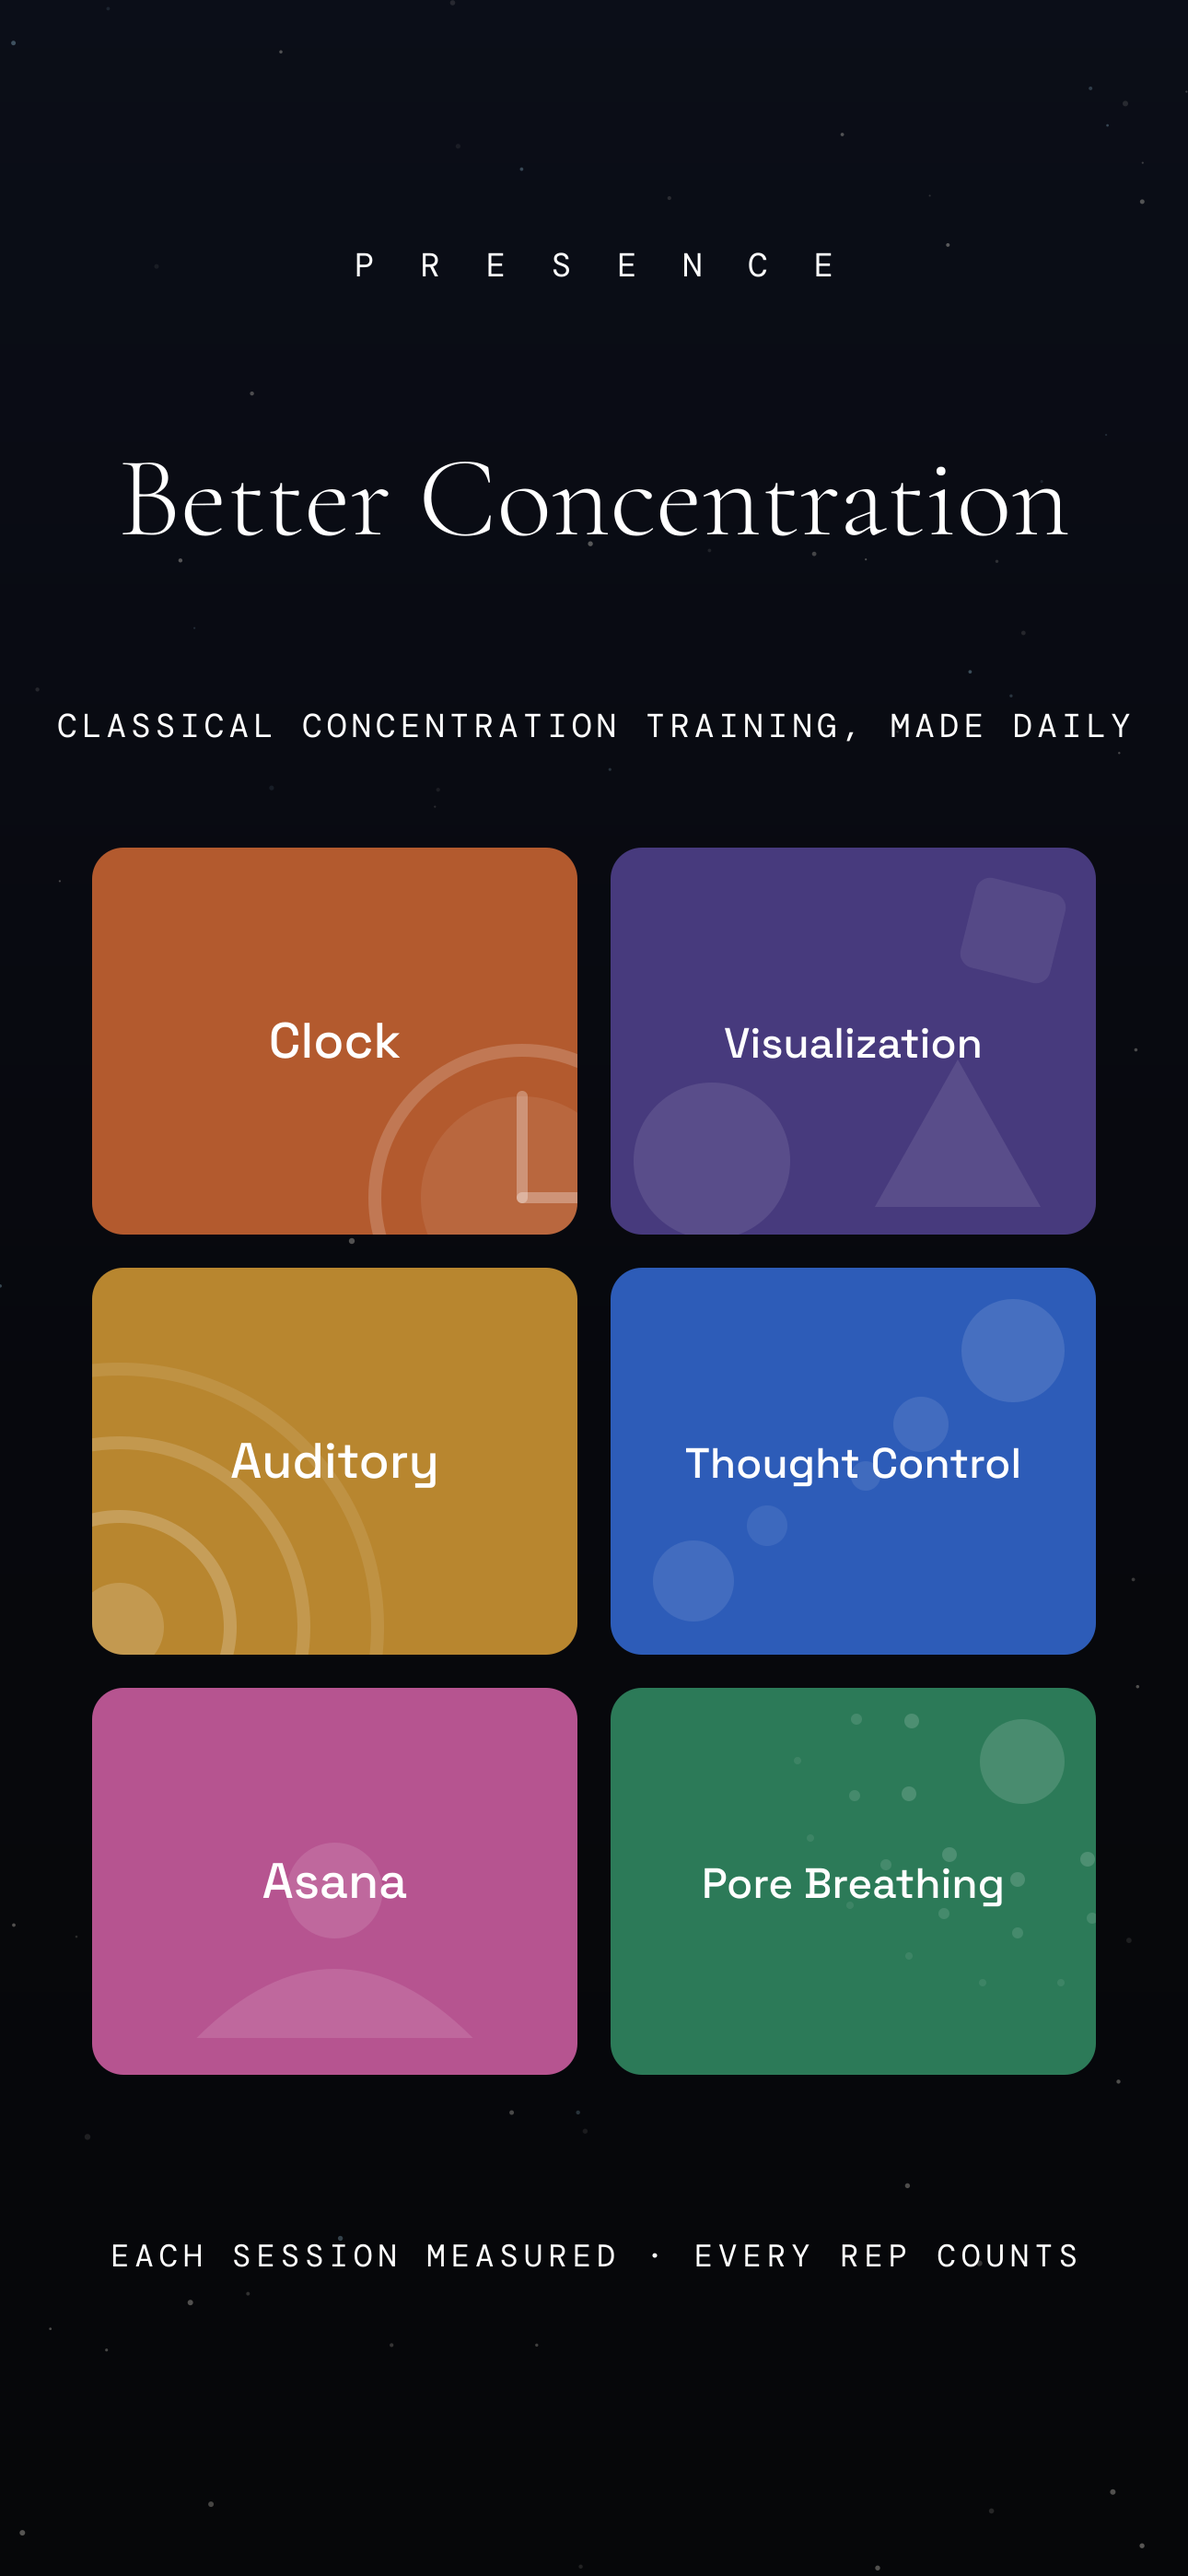
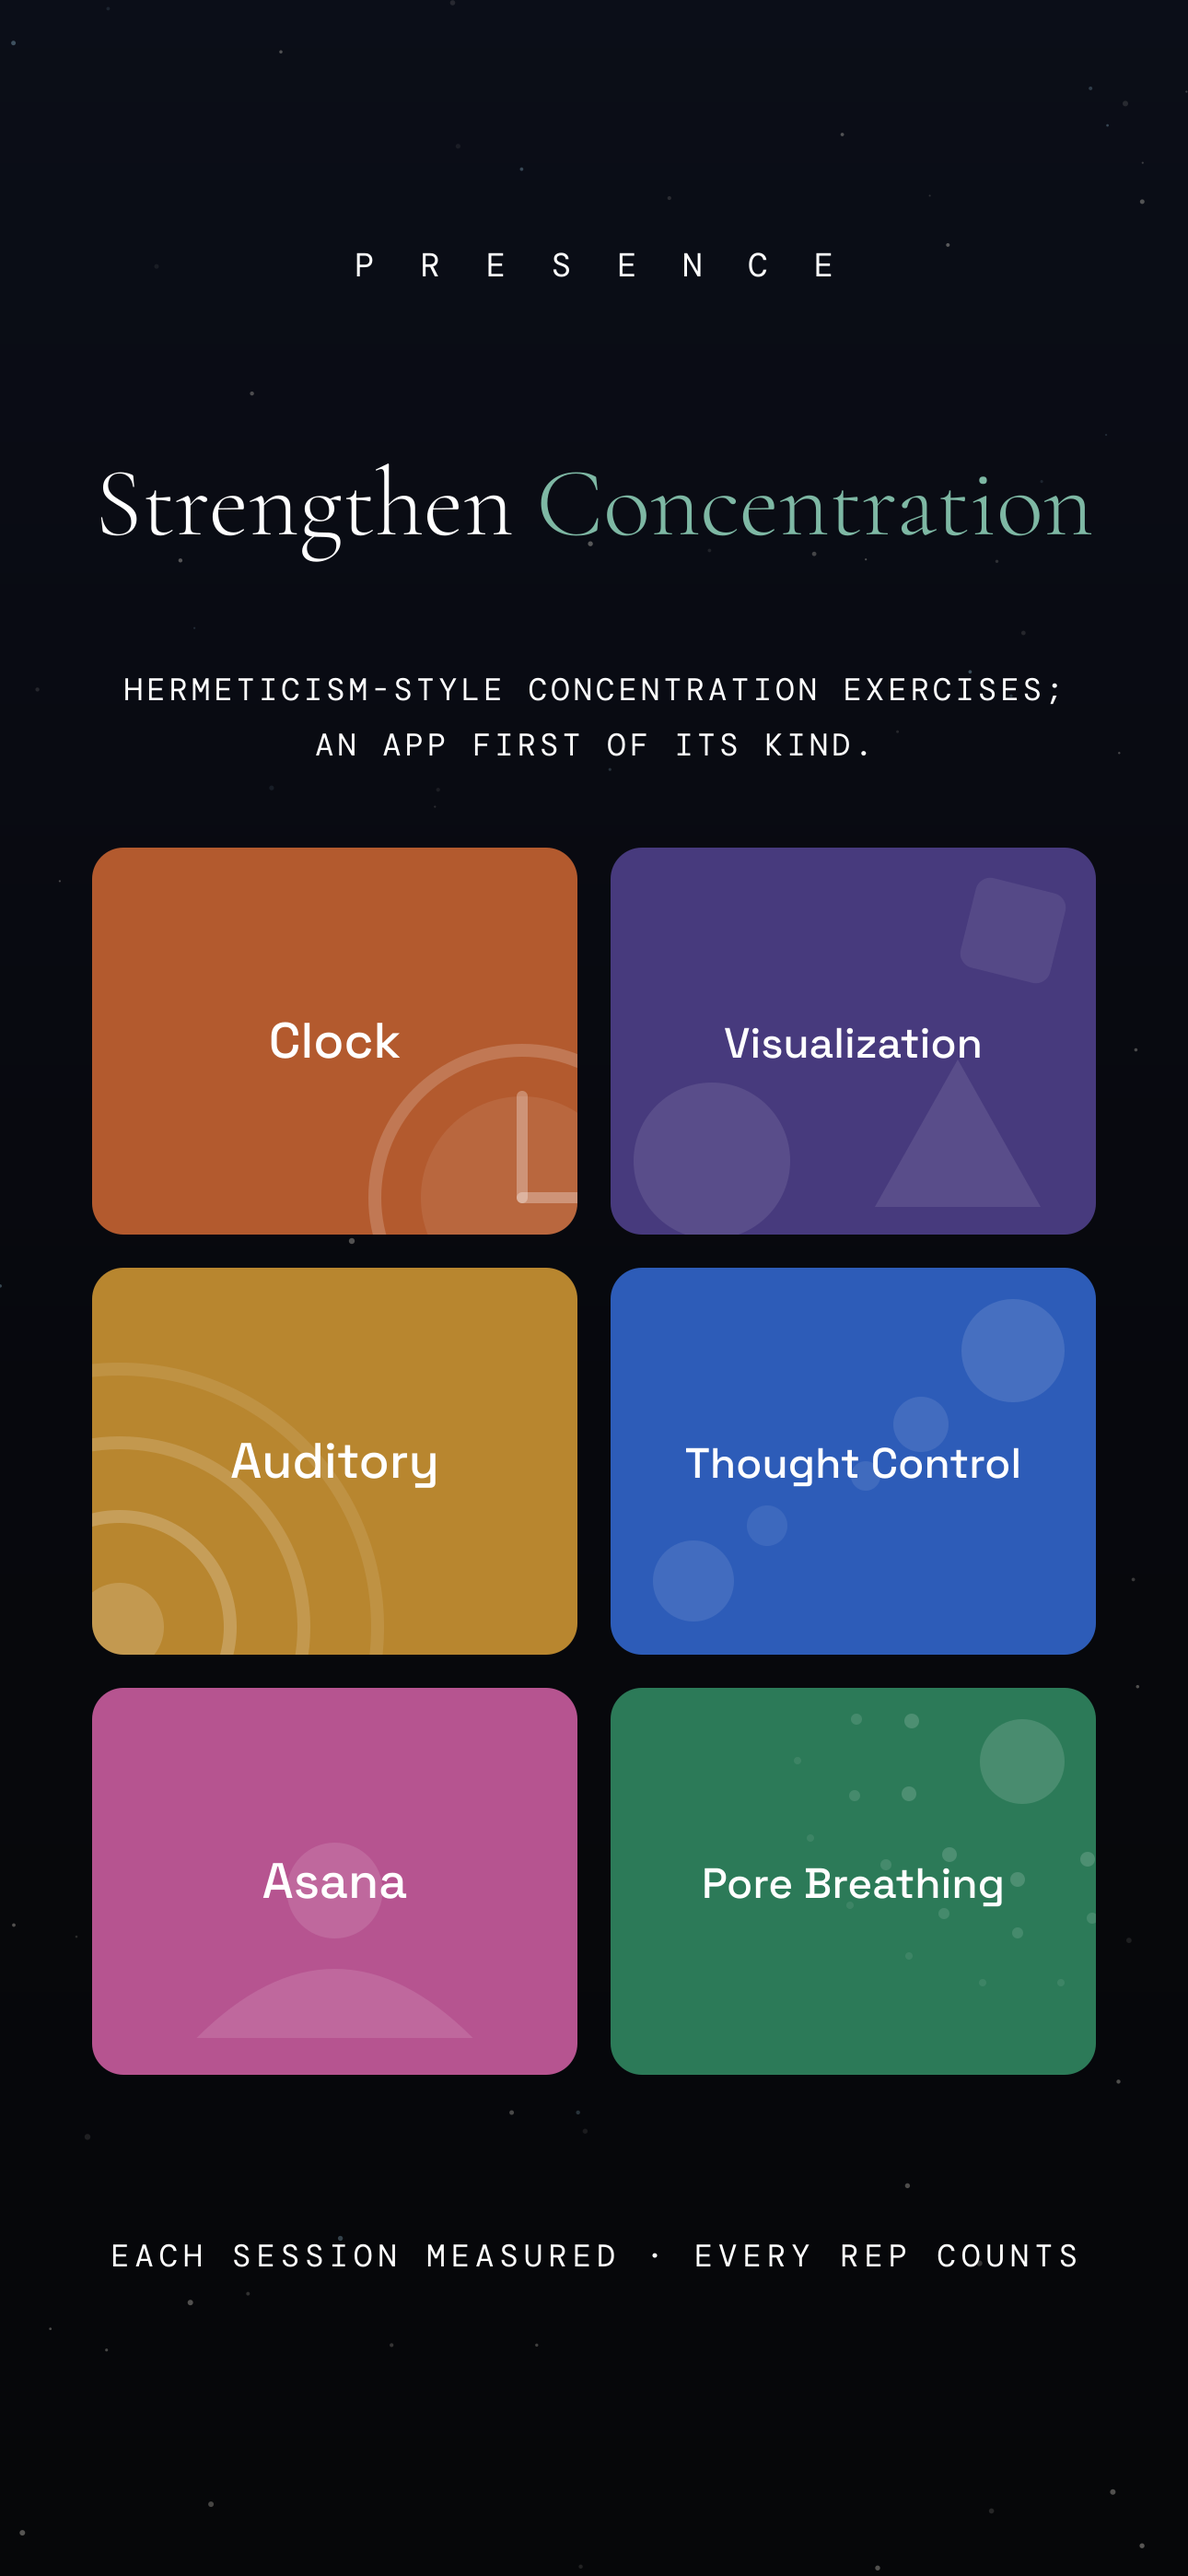
Disciplines card: Strengthen Concentration headline and new subtext

diff --git a/marketing/generate.js b/marketing/generate.js
@@ -217,8 +217,9 @@ function card2() {
   });
   return shell(`
   ${mono(W / 2, 300, 36, '#ffffff', 'P R E S E N C E', 14)}
-  ${serif(W / 2, 580, 124, '#ffffff', 'Better Concentration')}
-  ${mono(W / 2, 800, 36, '#ffffff', 'CLASSICAL CONCENTRATION TRAINING, MADE DAILY', 5)}
+  ${serif(W / 2, 580, 106, '#ffffff', `Strengthen <tspan fill="${ACCENT}">Concentration</tspan>`)}
+  ${mono(W / 2, 760, 34, '#ffffff', 'HERMETICISM-STYLE CONCENTRATION EXERCISES;', 4)}
+  ${mono(W / 2, 820, 34, '#ffffff', 'AN APP FIRST OF ITS KIND.', 4)}
   ${g}
   ${mono(W / 2, 2370 + 90, 34, '#ffffff', 'EACH SESSION MEASURED · EVERY REP COUNTS', 6)}
   `, 19);
